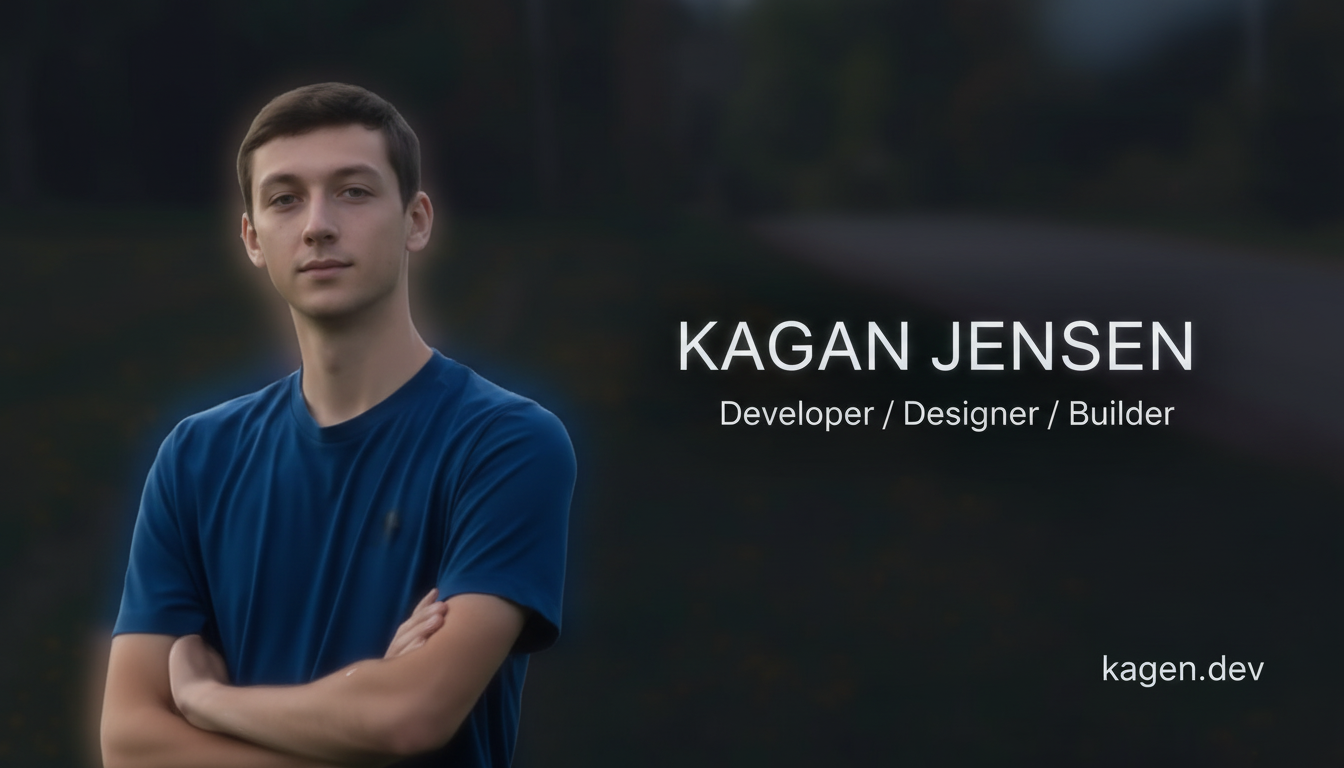
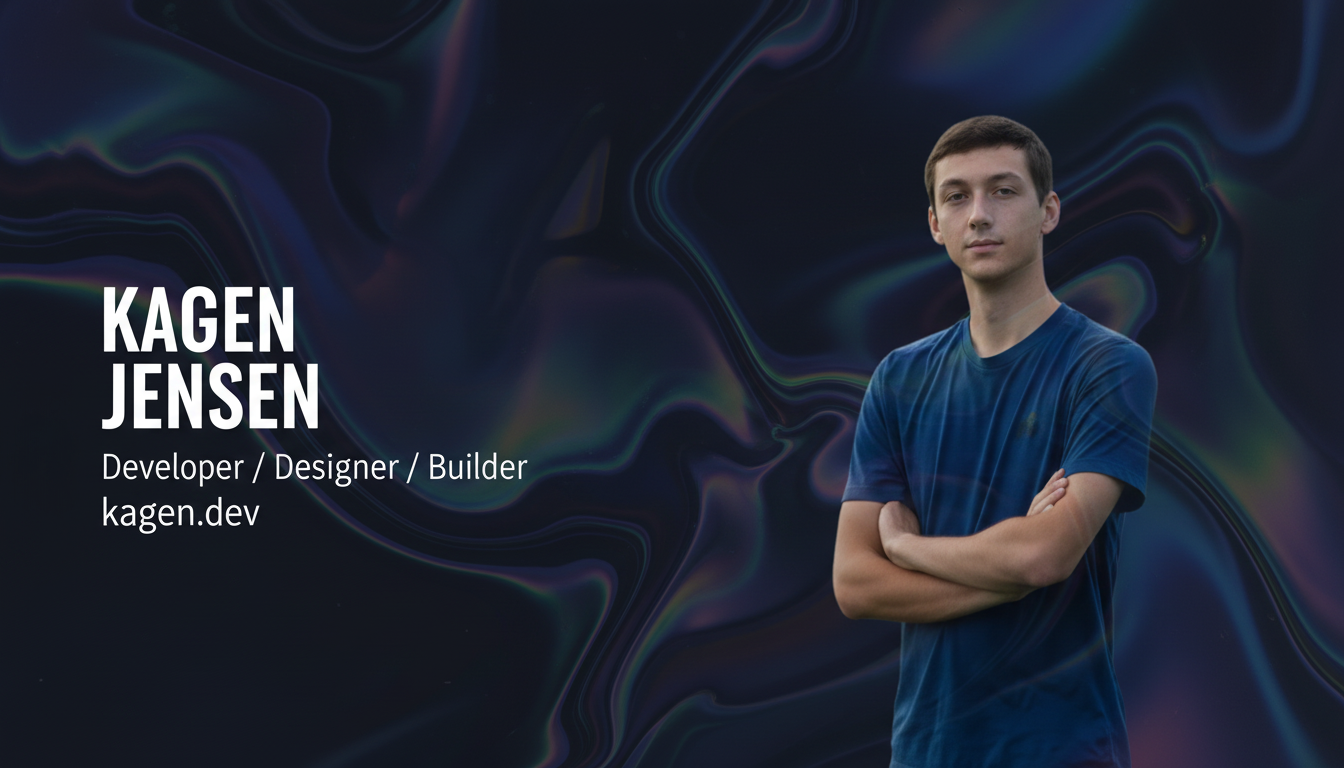
Changes

diff --git a/index.html b/index.html
@@ -5,11 +5,11 @@
     <meta name="viewport" content="width=device-width, initial-scale=1.0" />
     
     <!-- Primary Meta Tags -->
-    <title>Kagan Jensen | Developer, Designer & Builder</title>
-    <meta name="title" content="Kagan Jensen | Developer, Designer & Builder" />
-    <meta name="description" content="Kagan Jensen is a developer, designer, and builder specializing in web development, IT solutions, and system administration. View portfolio and projects." />
-    <meta name="author" content="Kagan Jensen" />
-    <meta name="keywords" content="Kagan Jensen, Kagan, Jensen, web developer, designer, builder, IT specialist, system administrator, portfolio, Shift2Stream, Schedule SPX" />
+    <title>Kagen Jensen | Developer, Designer & Builder</title>
+    <meta name="title" content="Kagen Jensen | Developer, Designer & Builder" />
+    <meta name="description" content="Kagen Jensen is a developer, designer, and builder specializing in web development, IT solutions, and system administration. View portfolio and projects." />
+    <meta name="author" content="Kagen Jensen" />
+    <meta name="keywords" content="Kagen Jensen, Kagen, Jensen, web developer, designer, builder, IT specialist, system administrator, portfolio, Shift2Stream, Schedule SPX" />
     <meta name="robots" content="index, follow" />
     
     <!-- Canonical URL -->
@@ -22,17 +22,17 @@
     <!-- Open Graph / Facebook -->
     <meta property="og:type" content="website" />
     <meta property="og:url" content="https://kagen.dev" />
-    <meta property="og:title" content="Kagan Jensen | Developer, Designer & Builder" />
-    <meta property="og:description" content="Kagan Jensen is a developer, designer, and builder specializing in web development, IT solutions, and system administration. View portfolio and projects." />
+    <meta property="og:title" content="Kagen Jensen | Developer, Designer & Builder" />
+    <meta property="og:description" content="Kagen Jensen is a developer, designer, and builder specializing in web development, IT solutions, and system administration. View portfolio and projects." />
     <meta property="og:image" content="https://kagen.dev/og-image.png" />
-    <meta property="og:site_name" content="Kagan Jensen Portfolio" />
+    <meta property="og:site_name" content="Kagen Jensen Portfolio" />
     <meta property="og:locale" content="en_US" />
 
     <!-- Twitter -->
     <meta name="twitter:card" content="summary_large_image" />
     <meta name="twitter:url" content="https://kagen.dev" />
-    <meta name="twitter:title" content="Kagan Jensen | Developer, Designer & Builder" />
-    <meta name="twitter:description" content="Kagan Jensen is a developer, designer, and builder specializing in web development, IT solutions, and system administration." />
+    <meta name="twitter:title" content="Kagen Jensen | Developer, Designer & Builder" />
+    <meta name="twitter:description" content="Kagen Jensen is a developer, designer, and builder specializing in web development, IT solutions, and system administration." />
     <meta name="twitter:image" content="https://kagen.dev/og-image.png" />
 
     <!-- Structured Data - Person Schema -->
@@ -40,7 +40,7 @@
     {
       "@context": "https://schema.org",
       "@type": "Person",
-      "name": "Kagan Jensen",
+      "name": "Kagen Jensen",
       "alternateName": "KJ",
       "url": "https://kagen.dev",
       "image": "https://kagen.dev/og-image.png",
@@ -63,13 +63,13 @@
     {
       "@context": "https://schema.org",
       "@type": "WebSite",
-      "name": "Kagan Jensen Portfolio",
+      "name": "Kagen Jensen Portfolio",
       "alternateName": "KJ Portfolio",
       "url": "https://kagen.dev",
-      "description": "Personal portfolio of Kagan Jensen - Developer, Designer & Builder",
+      "description": "Personal portfolio of Kagen Jensen - Developer, Designer & Builder",
       "author": {
         "@type": "Person",
-        "name": "Kagan Jensen"
+        "name": "Kagen Jensen"
       }
     }
     </script>
@@ -79,8 +79,8 @@
     {
       "@context": "https://schema.org",
       "@type": "ProfessionalService",
-      "name": "Kagan Jensen - Web Development Services",
-      "description": "Professional web development, design, and IT solutions by Kagan Jensen",
+      "name": "Kagen Jensen - Web Development Services",
+      "description": "Professional web development, design, and IT solutions by Kagen Jensen",
       "url": "https://kagen.dev",
       "priceRange": "$$",
       "areaServed": "Worldwide",

diff --git a/src/components/Hero.tsx b/src/components/Hero.tsx
@@ -16,7 +16,7 @@ const Hero = () => {
             DEVELOPER / DESIGNER / BUILDER
           </p>
           <h1 className="text-4xl md:text-6xl lg:text-8xl font-bold leading-tight tracking-tight mb-4 md:mb-6">
-            KAGAN
+            KAGEN
             <br />
             JENSEN
           </h1>
@@ -36,7 +36,7 @@ const Hero = () => {
 
         {/* Profile Picture */}
         <div className="w-40 h-40 md:w-56 md:h-56 lg:w-80 lg:h-80 rounded-3xl overflow-hidden border border-border/40 shadow-xl shrink-0 transition-all duration-300 hover:shadow-2xl hover:-translate-y-1">
-          <img src={profilePhoto} alt="Kagan Jensen" className="w-full h-full object-cover scale-[1.4] object-[center_25%]" />
+          <img src={profilePhoto} alt="Kagen Jensen" className="w-full h-full object-cover scale-[1.4] object-[center_25%]" />
         </div>
       </div>
       <div className="absolute bottom-6 md:bottom-10 left-1/2 -translate-x-1/2 animate-bounce hidden md:block">

diff --git a/src/components/Resume.tsx b/src/components/Resume.tsx
@@ -37,7 +37,7 @@ const Resume = () => {
       <div className="max-w-6xl mx-auto rounded-3xl bg-secondary/50 backdrop-blur-sm border border-border/30 p-8 md:p-12 shadow-lg">
         <h2 className="text-4xl md:text-5xl font-bold mb-4">RESUME</h2>
         <p className="text-muted-foreground font-mono mb-16">
-          Kagan Jensen • kagen@kagen.dev • +1(678)-200-3197
+          Kagen Jensen • kagen@kagen.dev • +1(678)-200-3197
         </p>
 
         <div className="grid md:grid-cols-2 gap-16">

diff --git a/src/components/Footer.tsx b/src/components/Footer.tsx
@@ -5,7 +5,7 @@ const Footer = () => {
     <footer className="py-8 px-6 md:px-12 lg:px-24">
       <div className="max-w-6xl mx-auto flex flex-col md:flex-row items-center justify-between gap-4">
         <p className="font-mono text-sm text-muted-foreground">
-          © {new Date().getFullYear()} Kagan Jensen. All rights reserved.
+          © {new Date().getFullYear()} Kagen Jensen. All rights reserved.
         </p>
         <a
           href="https://github.com/KdogDevs"
